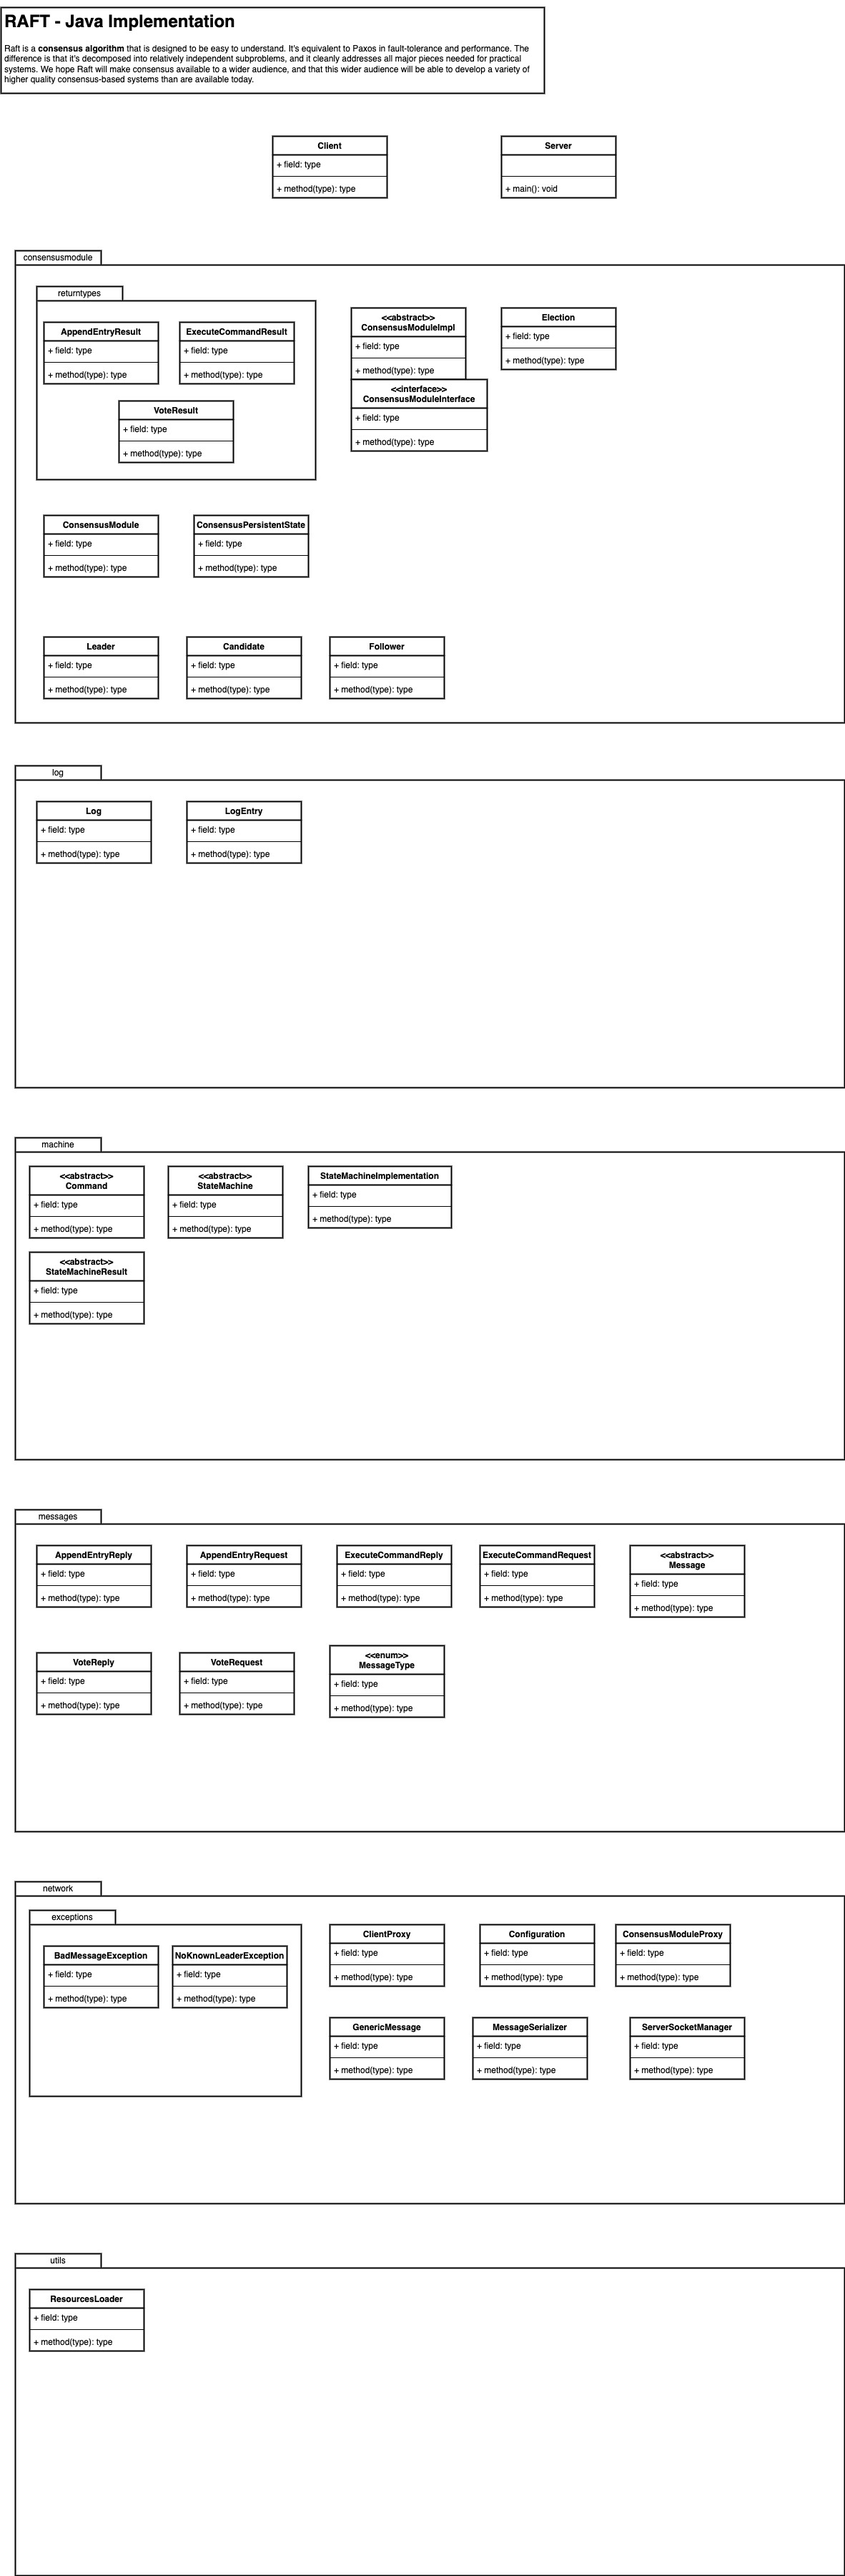
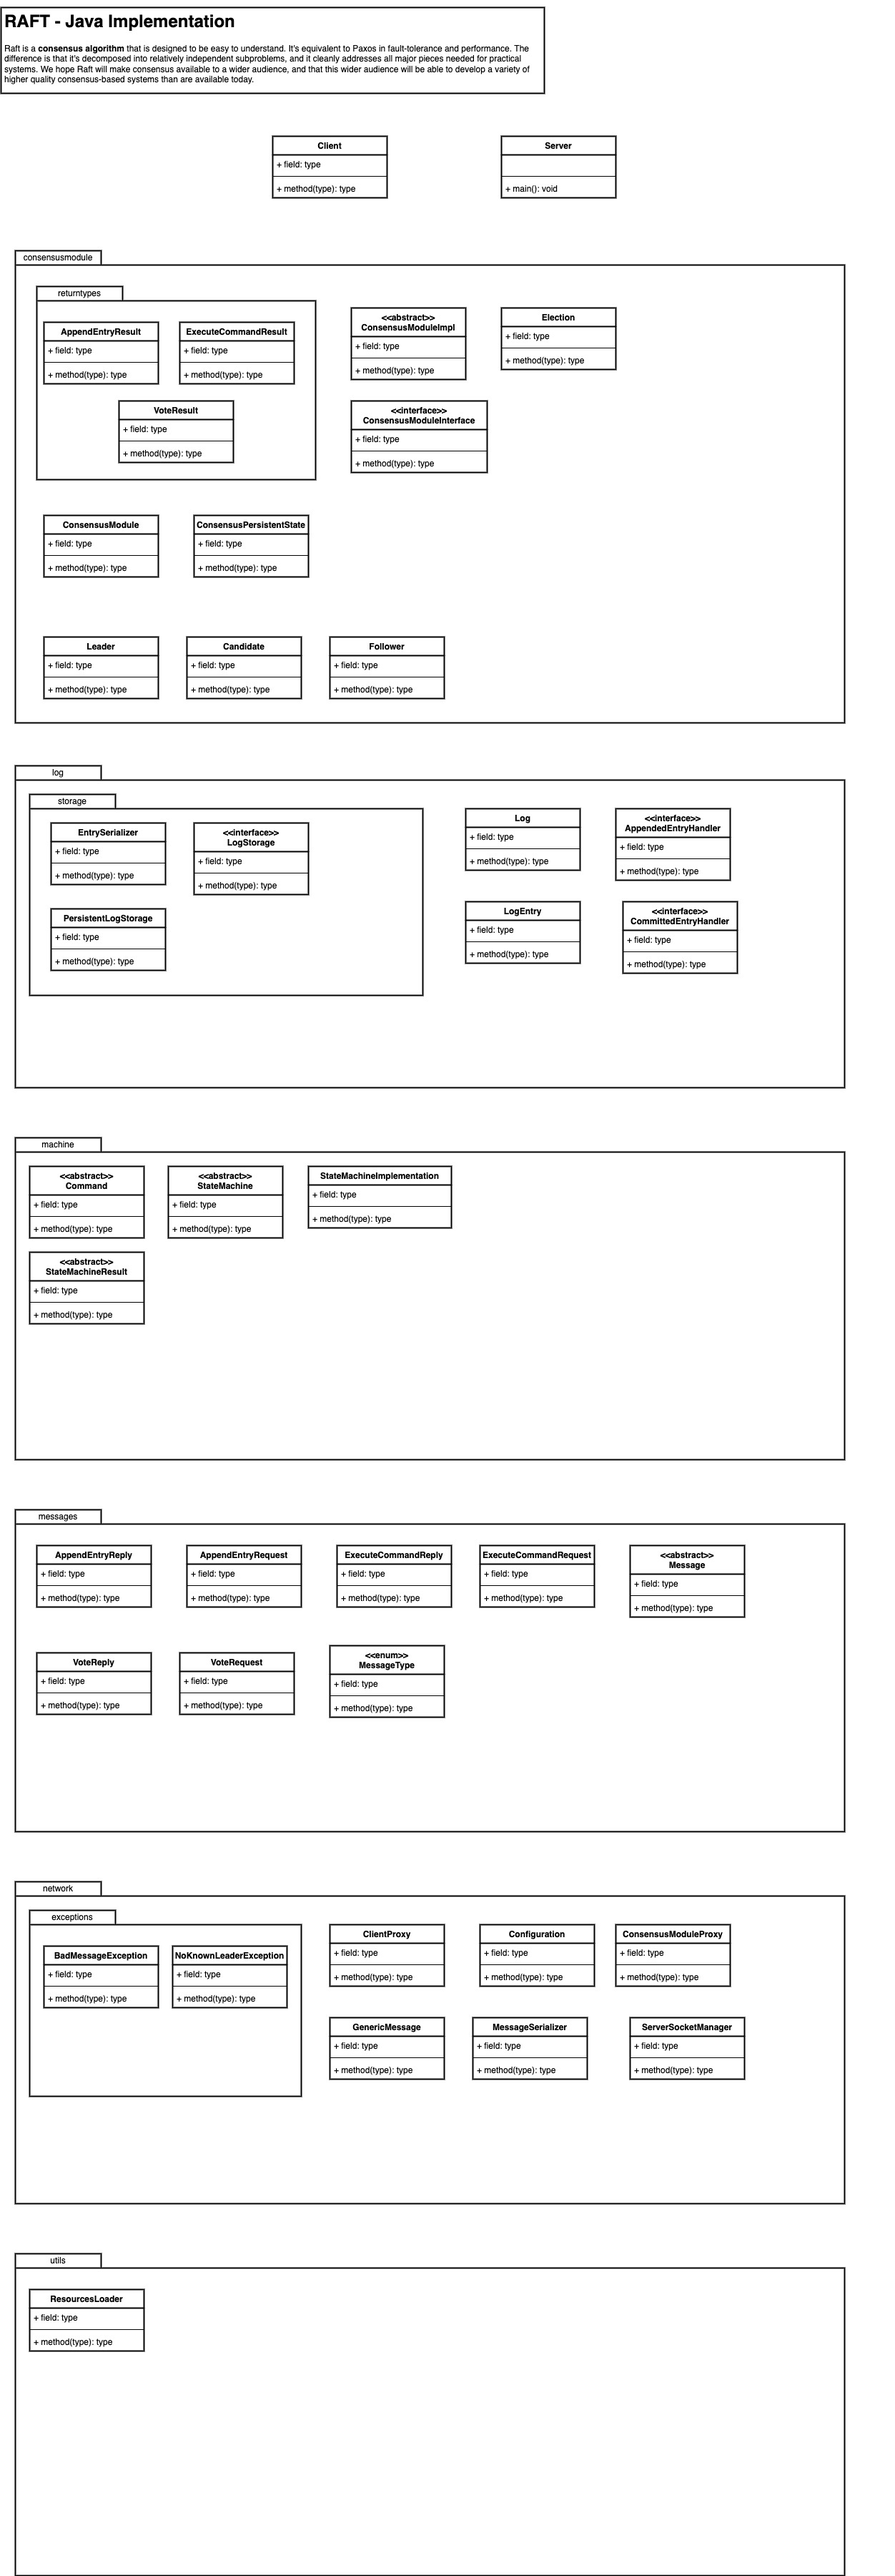
Updated UML Class Diagram 📈

diff --git a/README.md b/README.md
@@ -144,7 +144,7 @@ _For more examples, please refer to the [Documentation](https://raft.github.io/)
 - [ ] Thread Management
 - [ ] Log Management
   - [X] Entities
-  - [ ] Persistence
+  - [X] Persistence
   - [ ] Truncation
   - [ ] Snapshots
 
